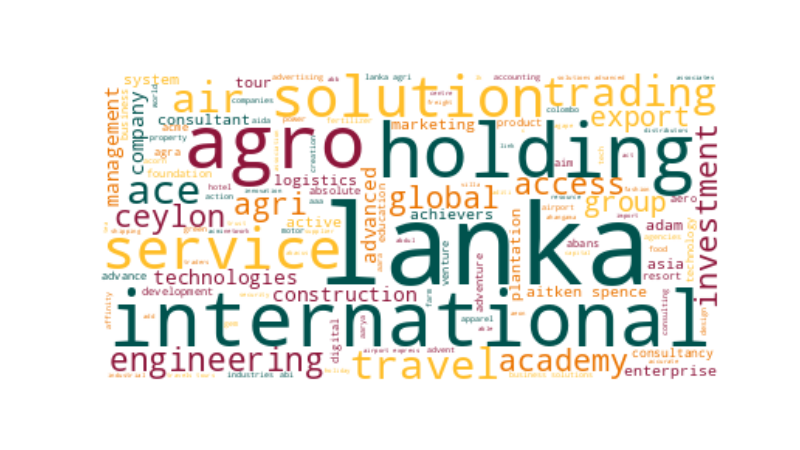
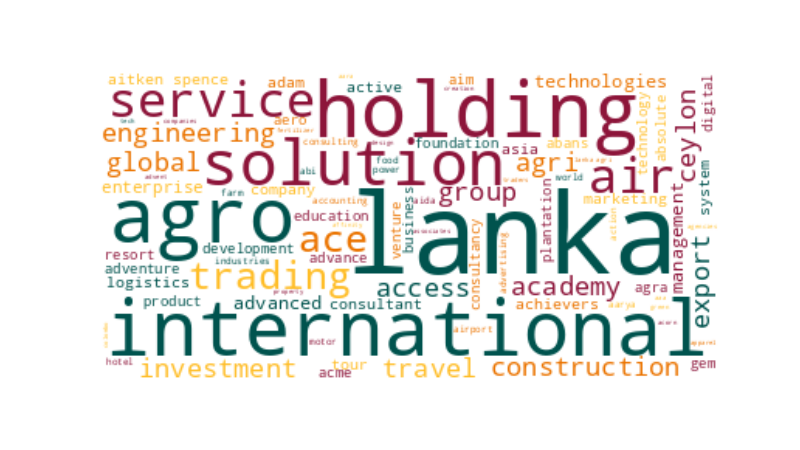
pipeline Sun Dec  3 11:20:42 UTC 2023

diff --git a/README.md b/README.md
@@ -4,37 +4,70 @@ Data Scraped from Registrar of Companies - Sri Lanka (https://eroc.drc.gov.lk)
 
 ![word-cloud](data/word_cloud.png)
 
-Scraped **3,632** Companies as of *2023-12-03 16:36:59*.
+Scraped **2,771** Companies as of *2023-12-03 16:50:41*.
 
 ## List of 30 Random Companies
 
-* AALYS HOLDINGS (PV00231120)
-* AARON J P LIFE SCIENCE (PV00268499)
-* AATHAARAM FOUNDATION ()
-* ABANS INFORMATION SYSTEMS (PV95442)
-* ABDULLAH TRADERS (PV74661)
-* ABE LEISURE (PV98849)
-* ACCESS REALITIES (MIDCITY) (PB4991)
-* ACCIT BPO (PV00270252)
-* ACCRA TRADING (PV00277560)
-* ACS COMPUTER SOLUTIONS (PV83902)
-* ACTIONAR ENGINEERING (PV00226122)
-* ACTIVE LOGIC (PV5970)
-* ACUMEN HOLDINGS (PV00258357)
-* ACUMEN SERVICES (PV65672)
-* ADAM & EESA HOLDINGS (PV00244507)
-* ADCHAYA  PATHRA (PV00259155)
-* ADCOHOLIC (PV120923)
-* ADIKARI WELADA WIMANA (PV00252691)
-* ADITHYA CEYLON GROUPS (PV00224432)
-* ADVANTEC (PV20657)
-* ADVENT TECH HOLDINGS (PV00255212)
-* AERUS HOLDING LANKA (PV00276357)
-* AFFIX TECHNOLOGIES (PV00231558)
-* AGRONOMICS LANKA (PV00226204)
-* AHANGAMA HEIGHTS (PV81598)
-* AIKO LANKA (PV00230364)
-* AION S G RESIDENCIES (PV4781)
-* AIR COOL ENGINEERS L K (PV00238917)
-* AIRLINE CARGO RESORUCES (PV2684)
-* AISEL TRENDS (PV75061)
+* AABAR GLOBAL - PV00215997
+* ABAA AIWA PEOPLES COMPANY - PV00213948
+* ABBA HOLDINGS - PV64242
+* ABRAR MANAGEMENT SERVICES - PV91278
+* ABSTRACT EDGE - PV00238630
+* ABU RICE FACTORY - PV21559
+* ACADEMY FOR I.C.T. TRAINING AND SKILLS DEVELOPMENT - GA00223485
+* ACCURATE CARS - PV00207068
+* ACENTURA - PV00204563
+* ACHIEVERS GLOBAL SOLUTIONS - PV00262589
+* ACLOUD CONSTRUCTION - PV00200233
+* ACTIVA WORLD - PV108066
+* ACTIVE MANAGEMENT SOLUTIONS - PV112627
+* ADAM & EESA HOLDINGS - PV00244507
+* ADVANCED GRAPHENE TECHNOLOGIES LANKA - PV00238788
+* ADVANCED PROFILE CUTTING - PV00202690
+* AGA COFFEE - PV00222770
+* AGAMI - PV00228130
+* AGILIS INTERNATIONAL INC - FC1182
+* AGNA GREEN - PV00253665
+* AGRICULTURAL MACHINERY MANUFACTURERS AND SUPPLIERS ASSOCIATION OF SRI LANKA - GA2984
+* AGRIUM - PV76214
+* AGRO LIFE ENTERPRISE - PV00236305
+* AGRO LINE - PV7554
+* AGSTAR EXPORTS - PV94964
+* AHUNGALLA VILLAGE AND RESORT - PV00267500
+* AION CYBER SECURITY - PV00250628
+* AIR SEA LAND TOURS - PV79462
+* AIRFLOW SYSTEMS - PV116288
+* AJASMIN INDUSTRIAL - PV86396
+
+## List of Early Registrations
+
+* PV**73** - AIRPORT TRAVELS 
+* PV**101** - ADVANCED BARCODE TECHNOLOGIES 
+* PV**109** - AITKEN SPENCE SHIPPING SERVICES 
+* PV**401** - ABBE 
+* PV**402** - AITKEN SPENCE DEVELOPMENTS 
+* PV**403** - ACE CONTAINER TERMINALS 
+* PV**412** - ACE EXPORTS 
+* PV**413** - AGENCIES AND INVESTMENTS 
+* PV**454** - ADVANTIS EXPRESS 
+* PV**484** - AJENTHAA TRADING COMPANY 
+* PV**512** - AITKEN SPENCE APPARELS 
+* PV**534** - ABAY INDIA 
+* PV**536** - AGSOFT 
+* PV**558** - ACE AYURVEDIC 
+* PV**559** - ACT ENTERPRISES 
+* PV**605** - AITKEN SPENCE RESOURCES 
+* PV**618** - ADITI INVESTMENTS 
+* PV**630** - AITKEN SPENCE HOTEL  MANAGEMENTS ASIA 
+* PV**689** - AITKEN SPENCE PROPERTY DEVELOPMENTS 
+* PV**725** - ACE FREIGHT LOGISTICS 
+* PV**727** - ACE AVIATION SERVICES 
+* PV**761** - ABDUL JABBAR & SONS 
+* PV**876** - AITKEN SPENCE OVERSEAS TRAVEL SERVICES 
+* PV**993** - AIR CONTROL SYSTEMS 
+* PV**1025** - AGSTAR SEEDS 
+* PV**1050** - ABBA INTERNATIONAL 
+* PV**1060** - ACME LANKA DISTILLERS 
+* PV**1066** - ABBA INTERNATIONAL DESIGNS 
+* PV**1095** - ACE CONTAINER REPAIR 
+* PV**1238** - AITKEN SPENCE EXPORTS 
